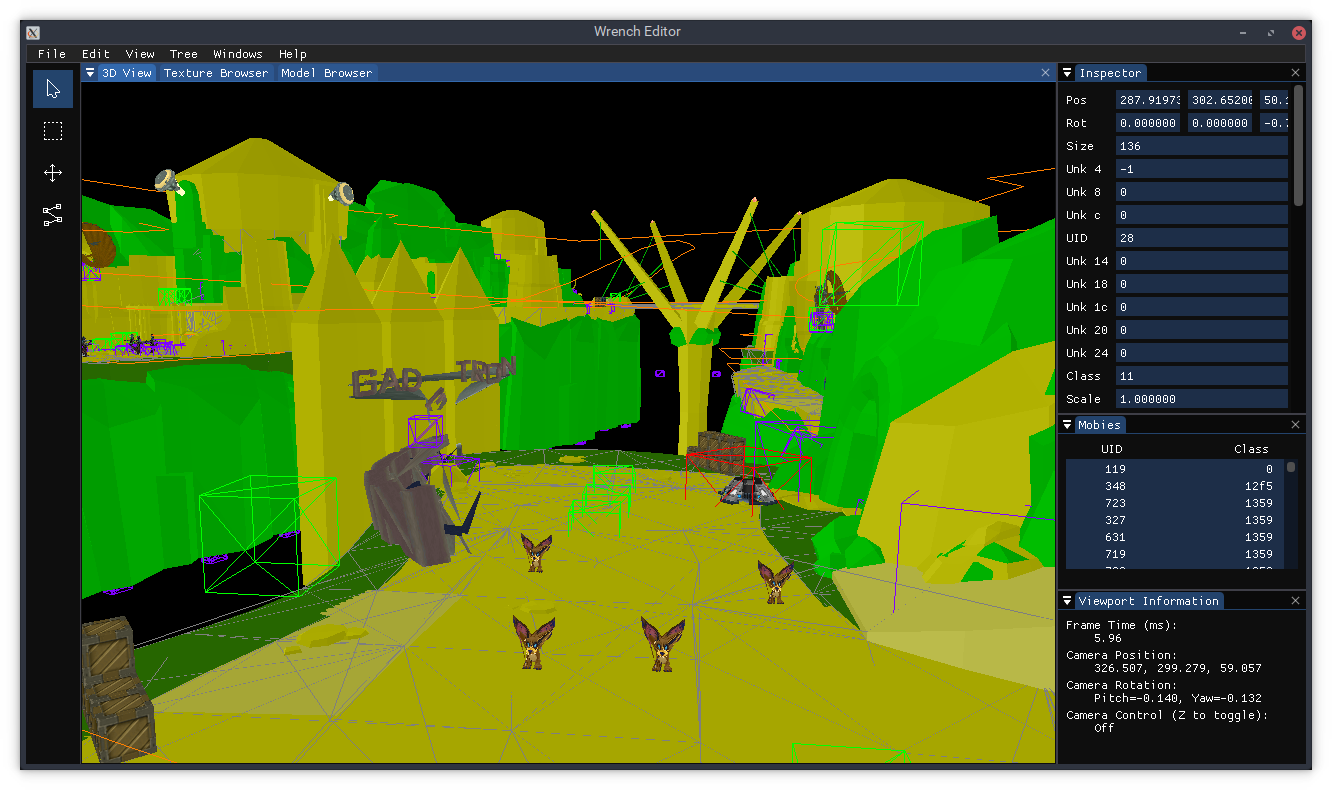
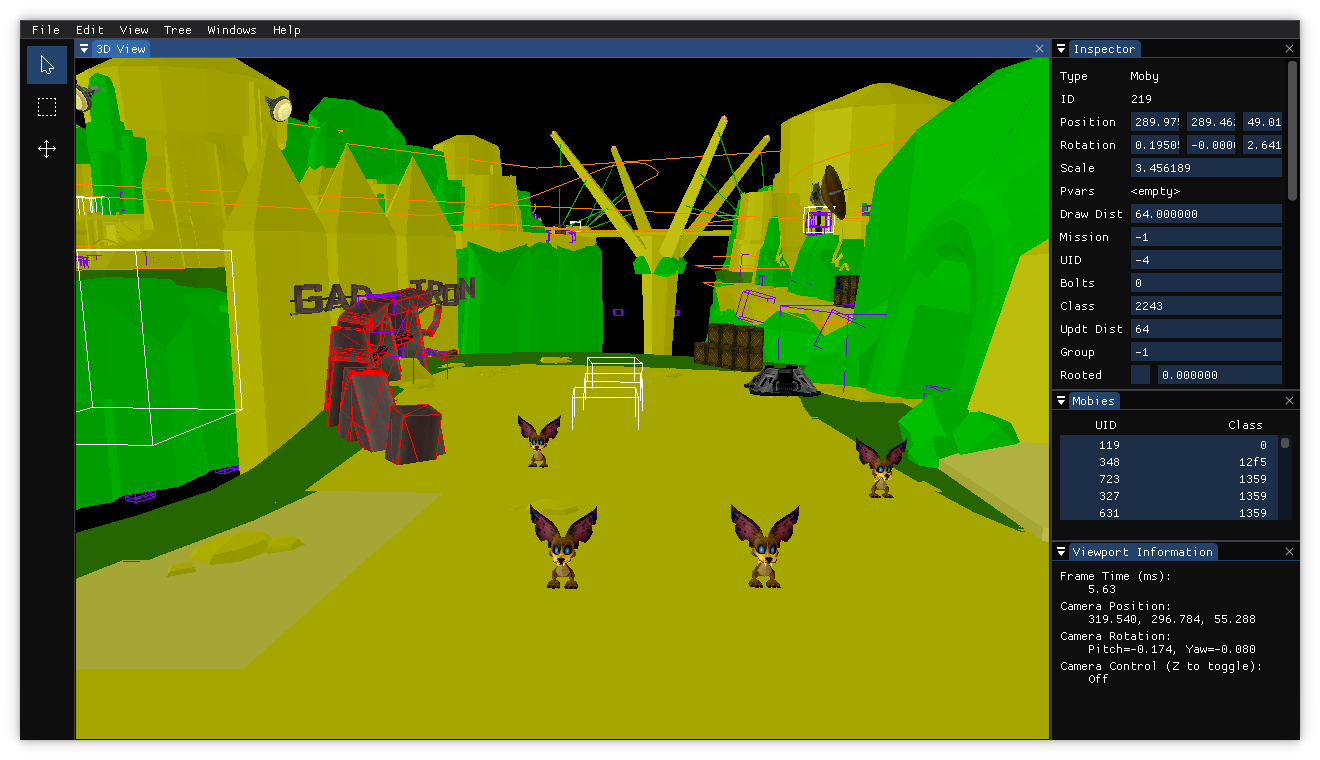
docs: Update readme, user guide and screenshot

diff --git a/README.md b/README.md
@@ -1,16 +1,26 @@
 # Wrench Editor
 
-A set of modding tools for the Ratchet & Clank PS2 games.
+A set of modding tools for the Ratchet & Clank PS2 games. Work in progress.
 
-Current features include an ISO extractor/builder, a level editor, facilities for extracting textures, and a number of command line tools for development.
+Features currently include:
+- WAD Utility
+  - Pack/unpack levels.
+  - Export moby meshes as COLLADA files.
+  - Import/export textures are PNG files.
+  - Import/export collision meshes as COLLADA files.
+  - Import/export everything else as binary files.
+- Level Editor
+  - View unpacked levels.
+  - Move objects and modify their properties.
+- ISO Utility
+  - Extract files from R&C1, R&C2, R&C3 and Deadlocked.
+  - Build modded ISO files for R&C2, R&C3 and Deadlocked.
 
-For build instructions, see the Build section below. For usage instructions, see the [User Guide](docs/user_guide.md). To find out which games are compatible, see the [Compatibility Matrix](docs/compatibility_matrix.md). For information on the game's file formats, see the [Formats Guide](docs/formats_guide.md).
+For build instructions, see the Building section below. For usage instructions, see the [User Guide](docs/user_guide.md). For information on the game's file formats, see the [Formats Guide](docs/formats_guide.md).
 
-## Screenshots
+## Screenshot
 
 ![Level Editor](docs/screenshots/editor.png)
-![Texture Browser](docs/screenshots/texture-browser.png)
-![Model Browser](docs/screenshots/model-browser.png)
 
 ## Building
 

diff --git a/docs/user_guide.md b/docs/user_guide.md
@@ -22,12 +22,6 @@ To build an ISO file, use the File->Build ISO menu. The following settings are a
 
 These tools are used for development.
 
-### fip
-
-Convert PIF images to and from indexed BMP files. Sample usage:
-
-	$ ./bin/fip export texture.pif texture.bmp
-
 ### iso
 
 This let you extract/build Ratchet & Clank ISO files. The games use raw disk I/O for loading assets, so a custom tool like this is required for extracting assets and making valid images. Sample usage:
@@ -86,6 +80,6 @@ Disassembles VIF command lists. This is useful for inspecting model data. Sample
 
 ### wad
 
-Extracts the contents of WAD files.
+Extract and build WAD files. Sample usage:
 
 	$ ./bin/wad extract level.wad outdir/
